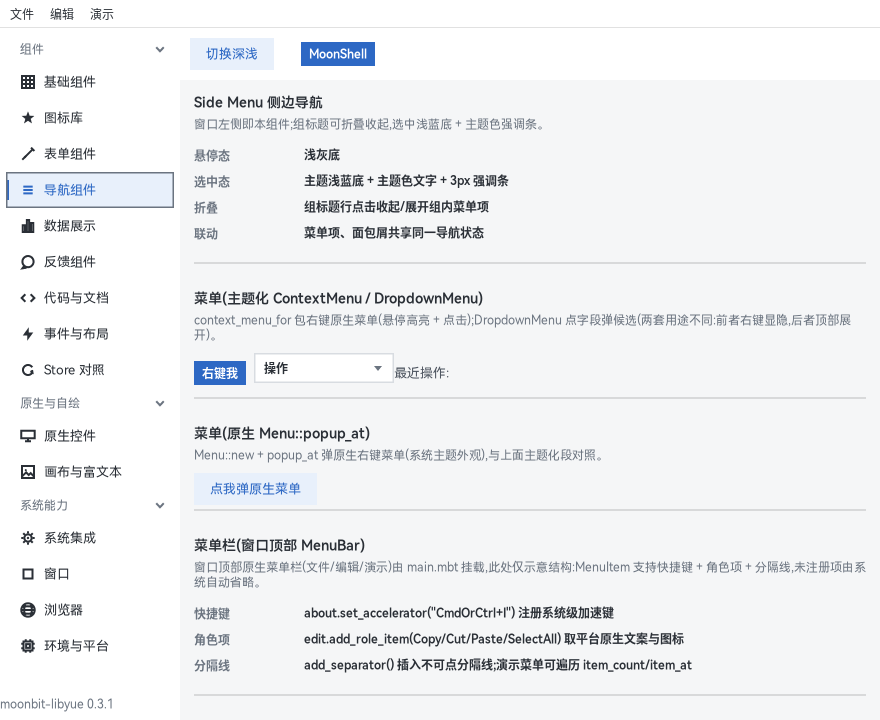
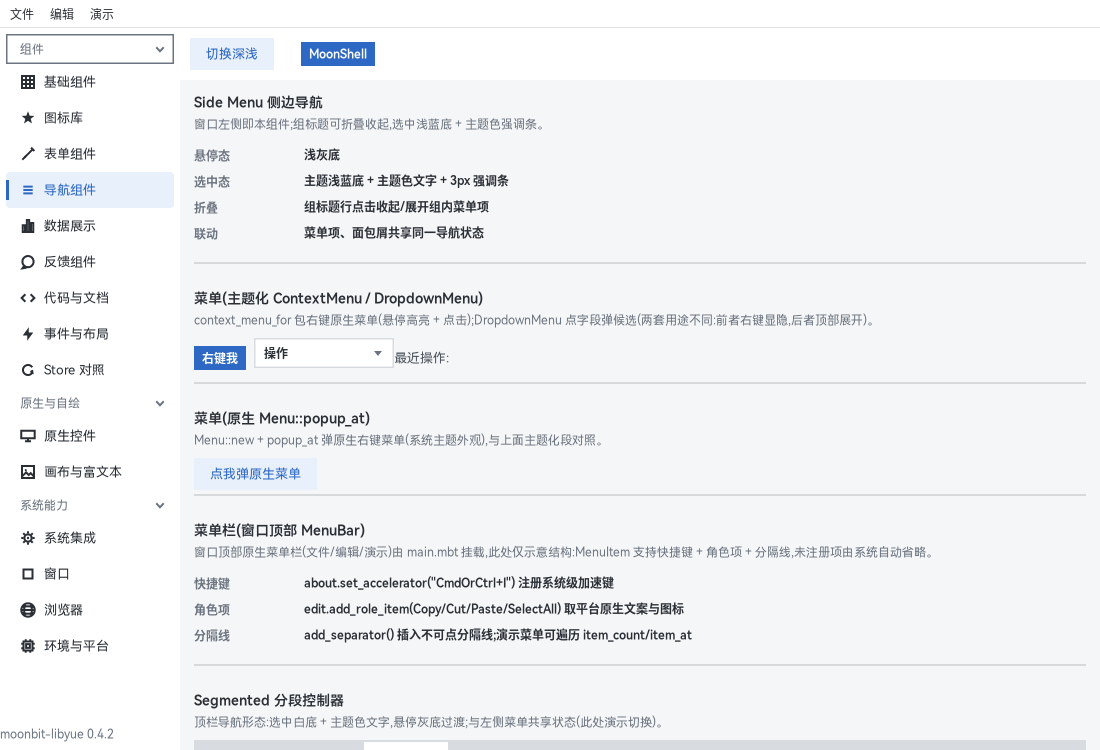
【文档】演示截图全面焕新:showcase 15 页真机重截(1100x750 统一尺寸,基础/表单/数据/图标/系统/代码/画布/浏览器等 11 张入库),替换过时 components 系旧图;根 README 中英升格定位句(原生跨平台桌面 GUI 库)、新增系统能力特色与真实 API 示例、量化数据行(55 控件/57 组件/性能基准/CI),文档索引演示节中英同步换新图;全部图片引用校验通过

diff --git a/README.md b/README.md
@@ -2,13 +2,19 @@
 
 > Thanks to [Cheng Zhao (zcbenz)](https://github.com/zcbenz) and his [Yue](https://github.com/yue/yue) framework, and to [MoonBit](https://github.com/moonbitlang). As it happens, both of these programming tools carry the character for "moon" — and I have grown fond of them both. [About me and `libyue`](docs/aboutlibyue.md)
 
-MoonBit bindings for [libyue](https://libyue.com/docs/latest/cpp/) — native cross-platform desktop apps for Windows / macOS (untested) / Linux.
+A **native cross-platform desktop GUI library** for the [MoonBit](https://github.com/moonbitlang) ecosystem — a full binding of [libyue](https://libyue.com/docs/latest/cpp/) (C++): one MoonBit codebase runs native windows on Windows / macOS / Linux, zero-config right after `moon add`.
 
 English | [简体中文](https://gitee.com/noahliu0911/moonbit-libyue/blob/master/README_ZH.md)
 
 ![Component showcase](docs/images/showcase-basic.png)
 
-## Three highlights
+<p align="center">
+  <img src="docs/images/showcase-data.png" width="32%" alt="Data display">
+  <img src="docs/images/showcase-form.png" width="32%" alt="Form components">
+  <img src="docs/images/showcase-system.png" width="32%" alt="System integration">
+</p>
+
+## Core highlights
 
 **🎨 Modern theme** — everything self-drawn, visually consistent across the three platforms; `theme_apply` reskins in one line, light/dark follows the system automatically:
 
@@ -37,6 +43,20 @@ let text = @yue.Signal::computed(fn() { "Clicked \{clicks.get()} times" })  // d
 @yue.button("Click me", on_click=fn() { clicks.update(fn(n) { n + 1 }) }),
 @yue.bind(text, fn(s) { s }),
 ```
+
+**🖥 Desktop-grade system integration** — system tray (Linux via a self-built DBus/SNI link, closing a libyue gap) · notifications & notification center · global shortcuts · clipboard · native menu bar · file dialogs · drag & drop · multiple monitors:
+
+```moonbit
+let tray = @yue.Tray::new("icon.png") // Result, errors are handleable
+match tray {
+  Ok(t) => t.on_click(fn() { window.show() })
+  Err(e) => println("Tray unavailable: \{e}")
+}
+let n = @yue.Notification::new()
+n.set_title("Build finished"); n.set_body("45/45 passed"); n.show()
+```
+
+> 55 native widgets fully bound · 57 themed self-drawn components · wrapper overhead [measured: startup on par with C++, memory under 1 MB](docs/adaptation.md) · three-platform CI · published on [mooncakes](https://mooncakes.io/)
 
 ## Quick start
 

diff --git a/docs/README.md b/docs/README.md
@@ -18,15 +18,15 @@ moon run examples/showcase      # full-capability demo board: 15 pages, three gr
 
 The showcase covers: Basic / Icons / Form / Navigation / Data Display / Feedback / Code & Docs / Events & Layout / Store comparison + Native widgets / Canvas & rich text + System Integration / Window / Browser / Environment & Platform, with a collapsible grouped side menu and the package version pinned at the bottom (kept in sync with moon.mod). Each page's source is its own file (`examples/showcase/pages_*.mbt`) — the best copy-paste material library; screenshots of the component library:
 
-![Navigation page](images/showcase-nav.png)
+![Basic components](images/showcase-basic.png)
 
-![Basic components](images/components-basic.png)
+![Form components](images/showcase-form.png)
 
-![Navigation](images/components-nav.png)
+![Data display](images/showcase-data.png)
 
-![Data display](images/components-data.png)
+![Code & docs](images/showcase-code.png)
 
-![Feedback](images/components-feedback.png)
+![System integration](images/showcase-system.png)
 
 ## Routing
 
